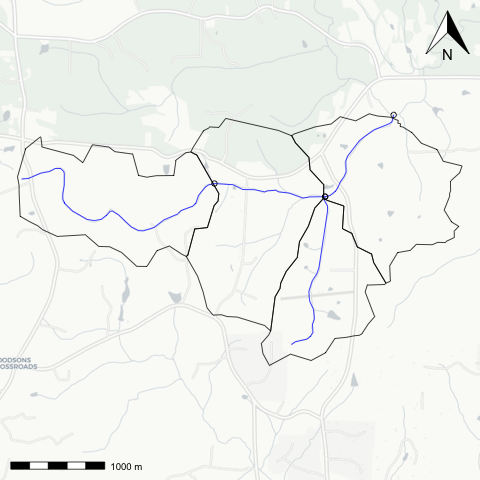
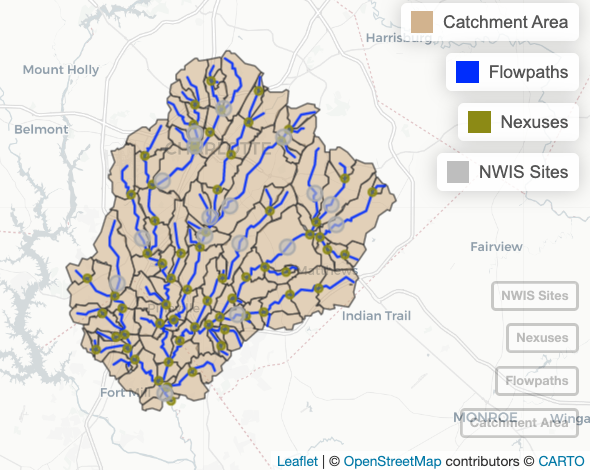
move data files and clean readme

diff --git a/data/README.md b/data/README.md
@@ -1,10 +1,4 @@
-# ngen HY\_Features-based data scheme
-
-The `hy_geom.R` script in this directory creates a number of sample outputs for development and testing purposes. All dependencies of this script are available on CRAN with:
-`install.packages(c("dplyr", "sf", "nhdplusTools", "jsonlite"))`
-- `nhdplus_subset.gpkg` contains a complete set of nhdplus data for the area around the smaller subset in other files.
-- `.csv` files contain edge lists for the data described below.
-- `.geojson` files contain basic parameters and geometry for the data described below.
+# NGEN HY\_Features-based data scheme
 
 ## Hydrologic and Hydrodynamic Graphs:
 